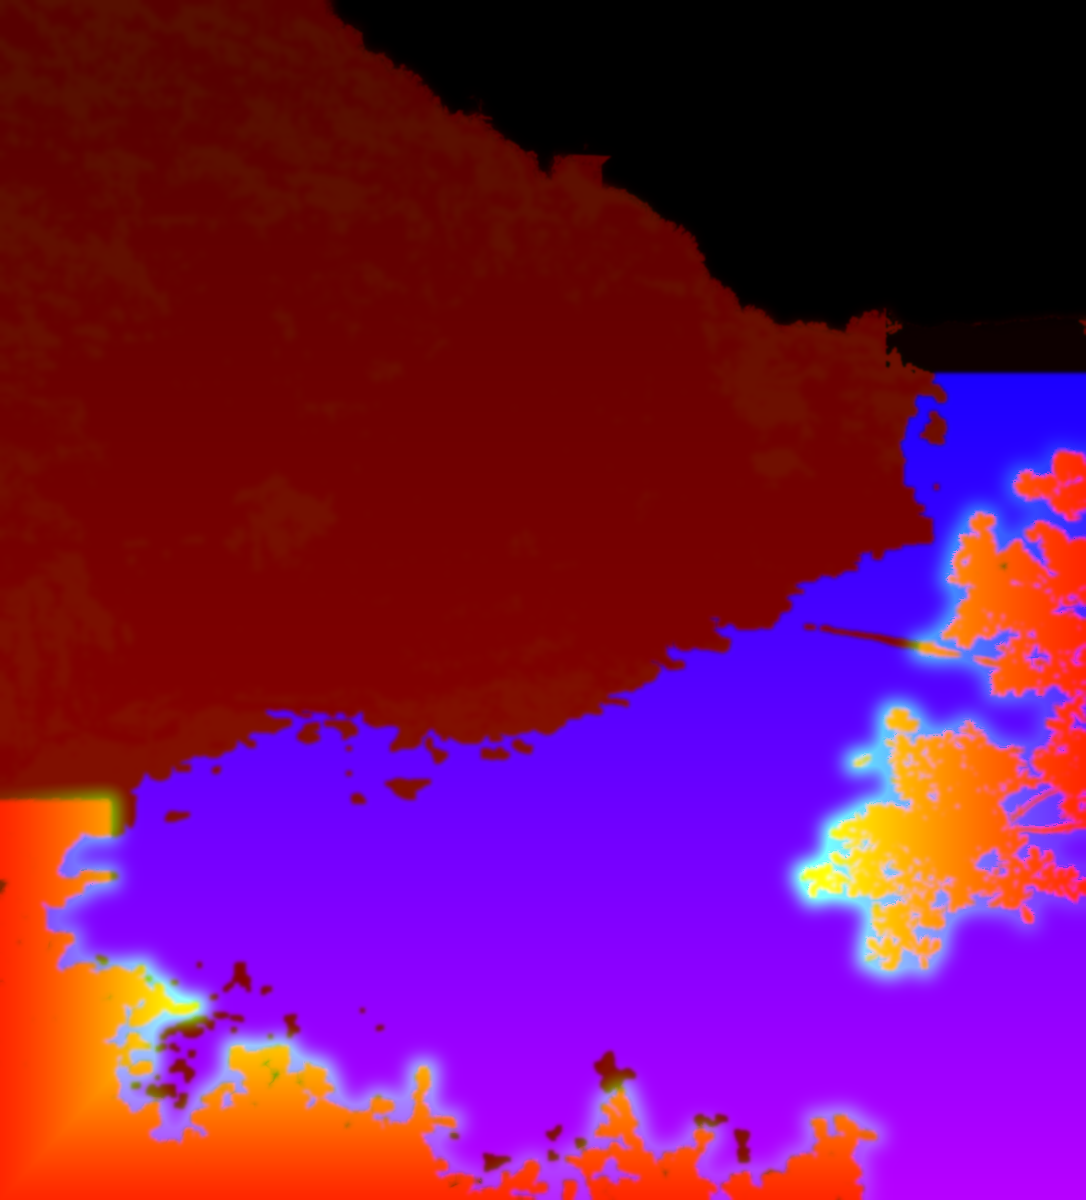
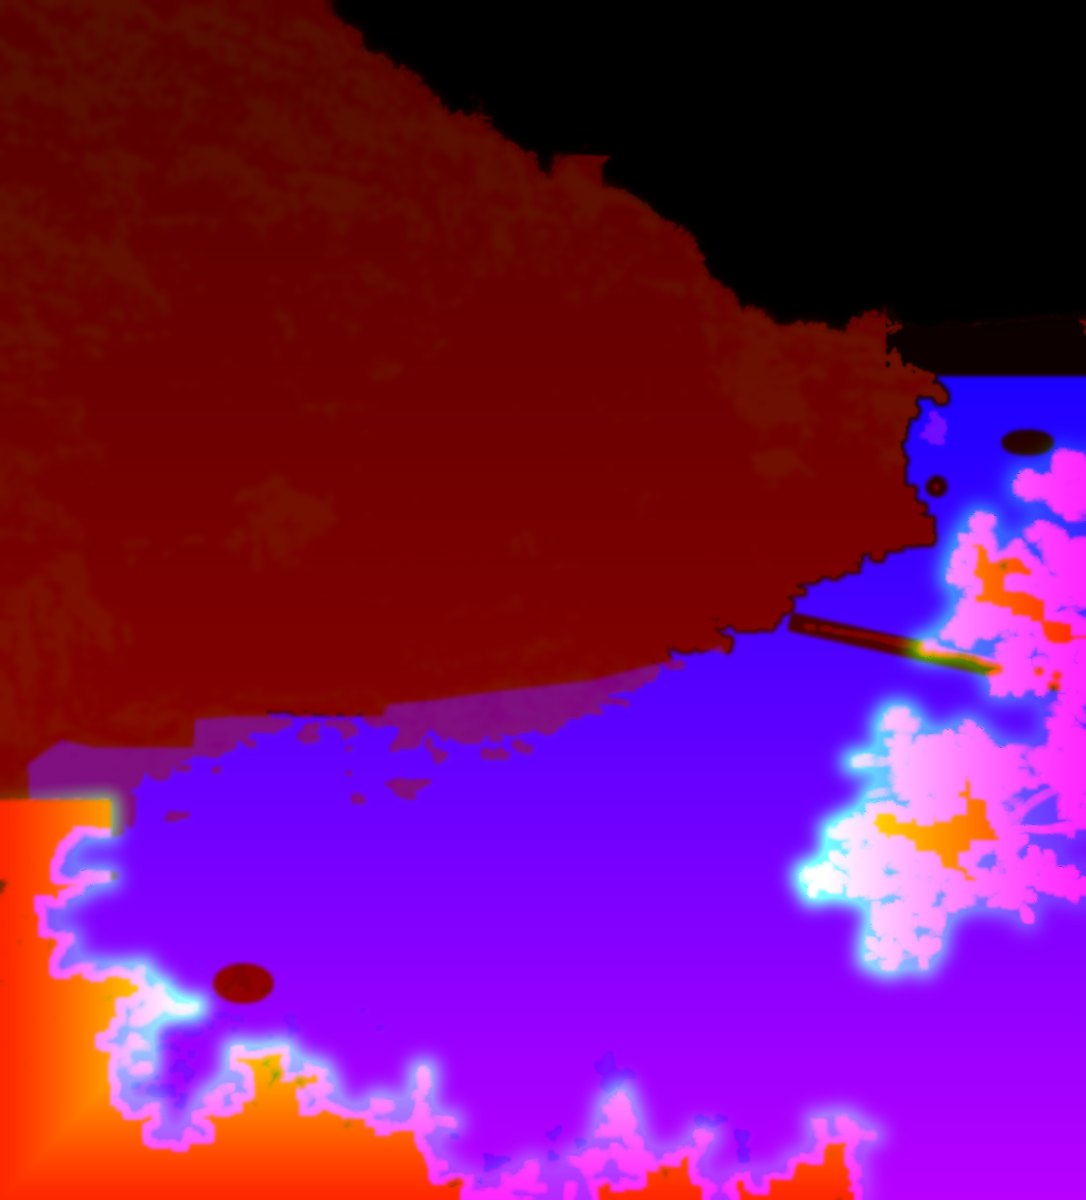
Mare rifatto: scorrono le increspature della foto, non si deforma più l'acqua
Prima l'acqua veniva deformata avanti e indietro sul posto, con sei onde
sinusoidali, bande chiare e scure, una rete di riflessi e puntini casuali
sopra: un vetro che tremola. Ora:

- scene.html: l'acqua è divisa in un fondo fermo (colori e fondale) e nelle
  increspature fini della foto stessa, che scorrono lungo la baia verso riva,
  più lente e piccole verso il largo e più rapide col vento. Due copie sfasate
  si danno il cambio, così lo scorrimento non salta. Brillano a intermittenza
  i riflessi che la foto ha già; la scia della luna nasce dalle increspature.
- I rami in primo piano sono uno strato a sé, con una maschera morbida e il
  loro colore ripulito dal mare: a riposo l'immagine è la foto, e quando si
  spostano scoprono acqua vera (la foto con i rami cancellati) e la boa che
  continua dietro le foglie, senza aloni.
- tools/maps.py: fondale basso davanti alle ville incluso nell'acqua (gli
  scogli restano nitidi), boa, barca, boa rossa e chi nuota esclusi dallo
  scorrimento, rametti sottili aggiunti al ramo, foto senza rami (plate.jpg)
  e maschera e colore delle foglie (leaf.png, leafrgb.jpg).

Claude-Session: https://claude.ai/code/session_016rfVP7zDddbD6eFjRHCoFi

Changed region(s): [[0.0, 0.3083, 1.0, 1.0], [0.3343, 0.8325, 0.3646, 0.8633]]

diff --git a/scene.html b/scene.html
@@ -31,7 +31,7 @@ function fail(reason){
 
 /* ---------- scene description (photo space: x right, y down, 0..1) ---------- */
 const SCENE = {
-  photo: 'img/caletta.jpg', w: 1086, h: 1200,
+  photo: 'img/caletta.jpg', plate: 'img/plate.jpg', w: 1086, h: 1200,
   horizonY: 373/1200,                 // the far shoreline
   focal: { landscape: [0.46, 0.42], portrait: [0.43, 0.5] },
   pivot: 0.5,                         // disparity that stays put while the camera drifts
@@ -80,9 +80,9 @@ void main(){ vec2 p = vec2((gl_VertexID << 1) & 2, gl_VertexID & 2); gl_Position
 const MAXL = 96;
 const FS = `#version 300 es
 precision highp float;
-uniform sampler2D uPhoto, uMaps, uSky, uFill;
+uniform sampler2D uPhoto, uPlate, uMaps, uSky, uFill, uLeafA, uLeafRGB;
 uniform vec2 uRes, uImg, uOff, uVis, uCam;
-uniform float uTime, uPivot, uWind, uWindPx, uWaveK, uRefrPx, uHorizonY;
+uniform float uTime, uPivot, uWind, uWindPx, uFlow, uDetailK, uHorizonY;
 uniform float uEV, uSat, uCon, uSkyMix, uNight, uStars, uCloud, uSunVis, uMoonVis, uLightsK, uWarmSea, uGlint;
 uniform vec3 uWB, uZenith, uHorizon, uGlow, uSunCol, uLift;
 uniform vec2 uSunPos, uMoonPos, uMoonPhase;
@@ -129,81 +129,87 @@ void main(){
   vec2 p = uOff + s*uVis;
   float aspect = uImg.x/uImg.y;
 
-  // parallax: each surface moves with its disparity around the pivot
+  // parallax: each surface moves with its disparity around the pivot. Next to a leaf the
+  // background keeps the depth of the water behind it, the leaves are a layer of their own.
   float d0 = texture(uMaps, p).r;
-  vec2 q = p - uCam*(d0 - uPivot);
+  vec2 q = p - uCam*((d0 > 0.8 ? 0.68 : d0) - uPivot);
   vec4 m = texture(uMaps, q);
   vec2 ip = q*uImg;
 
   // wind in the branches: the whole branch swings slowly, the leaves shiver on top of it, and
   // gusts sweep across the picture. The amplitude map is still where a branch enters the frame.
-  if (m.g > 0.004){
+  vec2 disp = vec2(0.0);
+  float sw = texture(uMaps, p).g;
+  if (sw > 0.004){
     float t = uTime;
-    float front = sin(t*0.31 - q.x*4.0 + q.y*1.5);
-    float gust = (0.55 + 0.45*front)*(0.8 + 0.2*sin(t*1.7 + q.y*9.0));
-    float swing = sin(t*(0.9 + 0.25*uWind) + q.y*3.0 + q.x*2.0) + 0.45*sin(t*(1.9 + 0.4*uWind) + q.x*7.0 + 1.3);
-    vec2 shiver = vec2(vnoise(ip*0.035 + vec2(t*(1.6 + uWind), 1.7)), vnoise(ip*0.035 + vec2(4.2, t*(1.4 + uWind)))) - 0.5;
-    vec2 disp = vec2(swing, -0.35*swing*swing + 0.25*swing)*gust*uWindPx + shiver*(1.2 + 1.8*uWind);
-    q += m.g*disp/uImg;
+    float front = sin(t*0.31 - p.x*4.0 + p.y*1.5);
+    float gust = (0.55 + 0.45*front)*(0.8 + 0.2*sin(t*1.7 + p.y*9.0));
+    float swing = sin(t*(0.9 + 0.25*uWind) + p.y*3.0 + p.x*2.0) + 0.45*sin(t*(1.9 + 0.4*uWind) + p.x*7.0 + 1.3);
+    vec2 pp = p*uImg;
+    vec2 shiver = vec2(vnoise(pp*0.035 + vec2(t*(1.6 + uWind), 1.7)), vnoise(pp*0.035 + vec2(4.2, t*(1.4 + uWind)))) - 0.5;
+    disp = (vec2(swing, -0.35*swing*swing + 0.25*swing)*gust*uWindPx + shiver*(1.2 + 1.8*uWind))*sw;
+  }
+  // the trees on the hill bend in place, a pixel or two; the sea never follows the branches
+  q += disp*(1.0 - smoothstep(0.07, 0.12, sw))*(1.0 - smoothstep(0.0, 0.2, m.b))/uImg;
+  // the foreground leaves swing over the plate, the photo with them painted out
+  vec2 qL = p - uCam*(1.0 - uPivot) - disp/uImg;
+  float leafA = texture(uLeafA, qL).r;
+  vec3 leaf = texture(uLeafRGB, qL).rgb;
+
+  // ---- the sea. The photo already holds its ripples: split it into a still base (the sea floor,
+  // its colours) and the detail finer than ~4 photo pixels (ripples and glints), and let only the
+  // detail travel, the way the wind pushes small waves across a bay. Two copies half a cycle apart
+  // take turns, so the drift never jumps; a slow noise shifts the cycle from place to place.
+  vec3 c = texture(uPlate, q).rgb;
+  float drift = m.b;
+  float sparkle = 0.0;
+  if (drift > 0.003){
+    const float LOD = 2.0;
+    float near = clamp((m.r - 0.1)/0.6, 0.0, 1.0);
+    vec2 dir = normalize(mix(vec2(-1.0, 0.06), vec2(-0.72, 0.62), near));   // along the bay, towards the shore
+    float rot = (vnoise(ip*0.0035 + 3.1) - 0.5)*0.9;
+    dir = vec2(dir.x*cos(rot) - dir.y*sin(rot), dir.x*sin(rot) + dir.y*cos(rot));
+    // a short cycle and a slow drift keep the two copies a few pixels apart: no double image
+    float speed = (1.2 + 5.0*near)*uFlow;                                    // photo pixels per second
+    const float T = 2.0;
+    float ph = uTime/T + 0.45*vnoise(ip*0.004 + 11.0);
+    float f1 = fract(ph), f2 = fract(ph + 0.5);
+    float w1 = 1.0 - abs(2.0*f1 - 1.0), w2 = 1.0 - w1;
+    vec2 qa = q - dir*speed*T*(f1 - 0.5)/uImg, qb = q - dir*speed*T*(f2 - 0.5)/uImg;
+    // only open-water detail travels: nothing is dragged in from the sea floor, the rocks, the boom
+    vec3 dA = (texture(uPlate, qa).rgb - textureLod(uPlate, qa, LOD).rgb)*smoothstep(0.6, 0.9, texture(uMaps, qa).b);
+    vec3 dB = (texture(uPlate, qb).rgb - textureLod(uPlate, qb, LOD).rgb)*smoothstep(0.6, 0.9, texture(uMaps, qb).b);
+    vec3 dMove = (w1*dA + w2*dB)/sqrt(w1*w1 + w2*w2);                       // keeps the contrast through the blend
+    // the glints the photo already has twinkle in the sun
+    float hl = smoothstep(0.03, 0.14, dot(dMove, LUM));
+    dMove *= mix(1.0, 0.6 + 0.8*vnoise(ip*0.45 + vec2(uTime*2.6, -uTime*1.9)), hl*uGlint)*uDetailK*1.08;
+    // what stays put quivers by under half a pixel, as seen through moving water
+    vec2 qv = q + (vec2(vnoise(ip*0.06 + vec2(uTime*0.8, 0.0)), vnoise(ip*0.06 + vec2(5.0, -uTime*0.7))) - 0.5)*0.9/uImg;
+    vec3 dStill = texture(uPlate, qv).rgb - textureLod(uPlate, qv, LOD).rgb;
+    // Open water (drift 1) trades its still ripples for the travelling ones. Over the visible sea
+    // floor (drift 0.5) the rocks keep all their detail: the light on them just breathes a little,
+    // and the ripples coming in from the open water lap over them.
+    float open = smoothstep(0.6, 0.95, drift);
+    float floorK = (1.0 - open)*smoothstep(0.1, 0.5, drift);
+    dStill *= 1.0 + floorK*0.35*(vnoise(ip*0.05 + vec2(uTime*0.9, -uTime*0.6)) - 0.5)*2.0*uGlint;
+    c = max(textureLod(uPlate, q, LOD).rgb + mix(dStill, dMove, open) + dMove*floorK*0.5, 0.0);
+    sparkle = max(dot(dMove, LUM), 0.0);
   }
 
-  // the sea: waves travel across the bay. The picture is a view from above, so a patch of water
-  // at disparity d lies about 1/d away: waves shrink and slow down towards the far coast.
-  float wm = texture(uMaps, q).b;
-  vec2 slope = vec2(0.0);
-  if (wm > 0.01){
-    float d = max(m.r, 0.06);
-    vec2 w = vec2((q.x - 0.5)*aspect, 1.0)*60.0/d;                  // metres, roughly
-    float foot = 0.045/(d*d) + 0.06/d;                              // metres covered by one photo pixel
-    float t = uTime*(0.75 + 0.15*uWind);
-    const int NW = 6;
-    vec3 WV[NW] = vec3[](vec3(9.0, 0.35, 0.095), vec3(5.6, -0.55, 0.085), vec3(3.4, 1.15, 0.075),
-                         vec3(2.1, 0.05, 0.065), vec3(1.3, -1.05, 0.055), vec3(0.8, 0.7, 0.045));
-    for (int i = 0; i < NW; i++){
-      float L = WV[i].x, k = 6.2831853/L;
-      vec2 dir = vec2(cos(WV[i].y), sin(WV[i].y));
-      float fade = clamp(1.0 - 3.0*foot/L, 0.0, 1.0);             // waves under a few pixels would only flicker
-      float ph = dot(dir, w)*k - t*sqrt(9.81*k) + float(i)*1.7;
-      slope += WV[i].z*fade*cos(ph)*dir;
-    }
-    vec2 cw = w*0.35 + vec2(t*0.3, -t*0.2);
-    slope += (vec2(fbm(cw, 3), fbm(cw + 7.3, 3)) - 0.5)*0.12*clamp(1.0 - 2.0*foot, 0.0, 1.0);
-    slope *= uWaveK;
-    // refraction: the rocks and the bottom seen through the moving surface
-    q += wm*slope*vec2(1.0, 0.7)*uRefrPx*(0.25 + d)/uImg;
-  }
-
-  vec3 c = texture(uPhoto, q).rgb;
-  float alpha = texture(uSky, q).r;
+  float alpha = texture(uSky, q).r*(1.0 - leafA);
   vec3 fill = texture(uFill, q).rgb;
   vec3 land = clamp((c - alpha*fill)/max(1.0 - alpha, 0.12), 0.0, 1.0);
+  land = mix(land, leaf, leafA);
   vec3 col = grade(land);
 
-  // light dancing on the sea floor and sparkles where the sun catches the ripples
-  if (wm > 0.01){
-    vec2 cp = ip*0.045;
-    float k = abs(fbm(cp + vec2(uTime*0.35, -uTime*0.21), 3) - fbm(cp*1.1 + vec2(-uTime*0.27, uTime*0.3) + 9.0, 3));
-    float caustic = pow(1.0 - clamp(k*3.2, 0.0, 1.0), 6.0);
-    float shallow = clamp((m.r - 0.25)/0.5, 0.0, 1.0);
-    col *= 1.0 + wm*caustic*0.55*shallow*uGlint;
-    vec2 cell = floor(ip*0.75);
-    float g = h12(cell + floor(uTime*7.0 + h12(cell)*7.0));
-    float glint = step(0.9993, g)*smoothstep(0.45, 0.85, vnoise(ip*0.02 + uTime*0.1))*(1.0 - smoothstep(0.35, 0.7, m.r));
-    col += wm*glint*uGlint*uSunCol*1.1;
-    // light on the waves: faces tilted towards the sky are brighter, the troughs darker
-    float farW = 1.0 - smoothstep(0.1, 0.5, m.r);
-    float facing = clamp(dot(slope, vec2(0.3, -0.95)), -0.45, 0.45);
-    col *= 1.0 + wm*facing*(0.5 + 0.4*farW);
-    col += wm*max(facing, 0.0)*uHorizon*(0.05 + 0.12*farW);
-    col += wm*smoothstep(0.22, 0.4, facing)*uGlint*uSunCol*0.25*(0.3 + farW);
-    // the far sea mirrors the sky at dusk
+  if (drift > 0.003){
     float far = 1.0 - smoothstep(0.10, 0.32, m.r);
-    col = mix(col, col*0.75 + uHorizon*0.30, wm*far*uWarmSea*0.7);
-    // the moon's path on the open water
+    // the far sea mirrors the sky at dusk
+    col = mix(col, col*0.75 + uHorizon*0.30, drift*far*uWarmSea*0.7*(1.0 - leafA));
+    // the moon's path on the open water, sparkling on the photo's own ripples
     float mx = abs(q.x - uMoonPos.x)*aspect;
-    float path = exp(-mx*mx/0.0012)*far*wm;
-    float sh = step(0.975, h12(floor(ip*vec2(0.6, 1.4)) + floor(uTime*5.0)));
-    col += path*uMoonVis*(0.05 + 0.9*sh)*vec3(0.75, 0.82, 1.0);
+    float path = exp(-mx*mx/0.0012)*far*drift*(1.0 - leafA);
+    col += path*uMoonVis*(0.04 + 6.0*sparkle)*vec3(0.75, 0.82, 1.0);
   }
 
   // ---- sky: the photo's sky by day, a drawn sky with sun, moon and stars at dusk and night
@@ -473,8 +479,8 @@ function frame(now){
   if (!state.windPinned) wd.value = state.weather.wind;
   gl.uniform1f(U.uWind, reduce ? 0 : wk);
   gl.uniform1f(U.uWindPx, reduce ? 0 : 4.5*wk + 0.8*wk*wk);       // swing of a branch tip, photo pixels
-  gl.uniform1f(U.uWaveK, reduce ? 0.3 : 0.55 + 0.45*wk);
-  gl.uniform1f(U.uRefrPx, 9.0 + 4.0*wk);
+  gl.uniform1f(U.uFlow, 0.55 + 0.5*wk);                              // how fast the ripples travel
+  gl.uniform1f(U.uDetailK, 0.92 + 0.12*wk);                          // and how crisp they look
   gl.uniform1f(U.uHorizonY, SCENE.horizonY);
   gl.uniform1f(U.uEV, L.ev);
   gl.uniform3fv(U.uWB, L.wb);
@@ -558,10 +564,14 @@ window.__scene = {
 };
 
 try {
-  const [photo, maps, sky, fill] = await Promise.all([
-    loadImage(SCENE.photo), loadImage('img/maps.png'), loadImage('img/sky.png'), loadImage('img/skyfill.png')]);
+  const [photo, maps, sky, fill, plate, leafA, leafRGB] = await Promise.all([
+    loadImage(SCENE.photo), loadImage('img/maps.png'), loadImage('img/sky.png'), loadImage('img/skyfill.png'), loadImage(SCENE.plate),
+    loadImage('img/leaf.png'), loadImage('img/leafrgb.jpg')]);
   gl.useProgram(prog);
   texture(0, photo, {srgb: true, mips: true}); gl.uniform1i(U.uPhoto, 0);
+  texture(4, plate, {srgb: true, mips: true}); gl.uniform1i(U.uPlate, 4);
+  texture(5, leafA, {red: true}); gl.uniform1i(U.uLeafA, 5);
+  texture(6, leafRGB, {srgb: true}); gl.uniform1i(U.uLeafRGB, 6);
   texture(1, maps); gl.uniform1i(U.uMaps, 1);
   texture(2, sky, {red: true}); gl.uniform1i(U.uSky, 2);
   texture(3, fill, {srgb: true}); gl.uniform1i(U.uFill, 3);

diff --git a/tools/maps.py b/tools/maps.py
@@ -3,7 +3,10 @@
 Outputs (img/):
   sky.png      8-bit sky alpha, same size as the photo
   skyfill.png  the photo sky extended under the land and blurred (no halos, no holes)
-  maps.png     RGB data map: R disparity (0 far .. 255 near), G sway weight, B water
+  maps.png     RGB data map: R disparity (0 far .. 255 near), G sway weight,
+               B drift (how much of the photo's ripples travel: 1 open water, 0.5 shallow, 0 land)
+  plate.jpg    the photo with the foreground leaves painted out (what is behind a swaying leaf)
+  leaf.png     8-bit soft matte of the foreground leaves; leafrgb.jpg their colour
 Review overlays go to tools/out/.
 
 The thresholds are tuned by eye for this photo; rerun after changing the image.
@@ -28,6 +31,31 @@ def guided(I, p, r, eps):
     a = (mean(I * p) - mI * mp) / (mean(I * I) - mI * mI + eps)
     b = mp - a * mI
     return np.clip(mean(a) * I + mean(b), 0, 1)
+
+
+def pull_push(img, known):
+    """Fills the unknown pixels with a smooth blend of the known ones around them."""
+    conf = known.astype(np.float32)
+    acc, wgt = img.astype(np.float32) * conf[..., None], conf
+    levels = []
+    while min(acc.shape[:2]) > 4:
+        levels.append((acc, wgt))
+        acc = cv2.resize(acc, (acc.shape[1] // 2, acc.shape[0] // 2), interpolation=cv2.INTER_AREA)
+        wgt = cv2.resize(wgt, (wgt.shape[1] // 2, wgt.shape[0] // 2), interpolation=cv2.INTER_AREA)
+    fill = acc / np.maximum(wgt, 1e-6)[..., None]
+    for acc_l, wgt_l in reversed(levels):
+        up = cv2.resize(fill, (acc_l.shape[1], acc_l.shape[0]), interpolation=cv2.INTER_LINEAR)
+        a = np.clip(wgt_l * 4, 0, 1)[..., None]
+        fill = (acc_l / np.maximum(wgt_l, 1e-6)[..., None]) * a + up * (1 - a)
+    return fill
+
+
+def fill_small_holes(mask, max_area):
+    """Turns the small islands of 'not mask' inside the mask into mask."""
+    n, lab, stats, _ = cv2.connectedComponentsWithStats((~mask).astype(np.uint8), connectivity=8)
+    small = np.zeros(n, bool)
+    small[1:] = stats[1:, cv2.CC_STAT_AREA] <= max_area
+    return mask | small[lab]
 
 
 def largest_touching(mask, seeds):
@@ -84,6 +112,23 @@ def main():
     big = np.zeros(n, bool)
     big[1:] = stats[1:, cv2.CC_STAT_AREA] > 60
     fg |= big[lab]
+    # the twigs: thin dark lines against the bright sea, hanging off the leaves
+    V_local = cv2.GaussianBlur(V, (0, 0), 6)
+    twigs = right_zone & (V < 0.62 * V_local) & ~bright_sea
+    n, lab = cv2.connectedComponents(twigs.astype(np.uint8), connectivity=8)
+    touching = np.unique(lab[cv2.dilate(fg.astype(np.uint8), np.ones((5, 5), np.uint8)).astype(bool) & twigs])
+    fg |= np.isin(lab, touching[touching > 0])
+
+    # ---- the boom: a floating barrier crossing the bay, behind the hanging branch. It stays still
+    # (no ripples drift over it) and goes on behind the leaves, so a swinging leaf uncovers it.
+    B0, B1 = np.array([798.0, 623.0]), np.array([1066.0, 683.0])
+    u = (B1 - B0) / np.linalg.norm(B1 - B0)
+    along = (xx - B0[0]) * u[0] + (yy - B0[1]) * u[1]
+    across = -(xx - B0[0]) * u[1] + (yy - B0[1]) * u[0]
+    boom = (np.abs(across) <= 3.5) & (along >= -2) & (along <= np.linalg.norm(B1 - B0))
+    boom_wide = (np.abs(across) <= 6.0) & (along >= -6) & (along <= np.linalg.norm(B1 - B0) + 6)
+    fg &= ~(boom & ~right_zone)
+
     water &= ~fg
     water_s = cv2.GaussianBlur(water.astype(np.float32), (0, 0), 1.2)
     fg = cv2.dilate(fg.astype(np.uint8), np.ones((3, 3), np.uint8)).astype(bool) & ~(sky_a > 0.5)
@@ -113,8 +158,95 @@ def main():
     sway = np.maximum(fg_wide * (0.15 + 0.85 * hinge), hill)
     sway = np.clip(sway, 0, 1).astype(np.float32)
 
-    water_b = cv2.GaussianBlur(water.astype(np.float32), (0, 0), 2.0)
-    maps = np.dstack([water_b, sway, d])  # BGR order for OpenCV: B water, G sway, R disparity
+    # ---- shallow water in front of the villas, where the sea floor shows through: an authored
+    # outline of the waterline (photo pixels), closed through the deep water below it
+    outline = np.array([(28, 845), (24, 762), (60, 736), (95, 744), (190, 744), (192, 716),
+                        (232, 713), (380, 713), (386, 701), (430, 697), (470, 691), (520, 685),
+                        (590, 677), (640, 664), (700, 650), (722, 641), (745, 700), (600, 800),
+                        (300, 860), (120, 880), (40, 880)], np.int32)
+    poly = np.zeros((h, w), np.uint8)
+    cv2.fillPoly(poly, [outline], 1)
+    shallow = poly.astype(bool) & ~water & ~fg
+
+    # ---- drift: how much of the photo's own ripples may travel. All of it on open water and
+    # behind the leaves that hang over it, half over the visible sea floor (the rocks stay sharp),
+    # none within a few pixels of anything that is not sea: rocks, the boom, the boat, the swimmer.
+    near_water = cv2.dilate(water.astype(np.uint8), np.ones((15, 15), np.uint8)).astype(bool)
+    # sparkles, sprigs and dark patches the colour test left out are still sea
+    deep = fill_small_holes(water | (fg & near_water) | shallow, 900) & ~shallow
+    # ...but the swimmer, the boat and the buoy are not, and must not drift away with the ripples
+    things = np.zeros((h, w), np.uint8)
+    for (cx, cy, rx, ry) in [(243, 983, 26, 16), (1027, 442, 22, 9), (936, 486, 7, 7)]:
+        cv2.ellipse(things, (cx, cy), (rx, ry), 0, 0, 360, 1, -1)
+    deep &= ~(things.astype(bool) | (boom_wide & ~fg))
+    barrier = ~(deep | shallow | fg)
+    dist = cv2.distanceTransform((~barrier).astype(np.uint8), cv2.DIST_L2, 5)
+    drift = np.where(deep, 1.0, np.where(shallow, 0.5, 0.0)) * np.clip((dist - 2.0) / 4.0, 0, 1)
+    drift = cv2.GaussianBlur(drift.astype(np.float32), (0, 0), 1.5)
+
+    # ---- plate: the photo with the foreground leaves painted out, so a leaf can sway over the
+    # water and the rocks without leaving a copy of itself behind
+    # The leaf layer is the photo seen through a tight soft matte (the leaves and their edge
+    # pixels); the plate replaces exactly what that matte covers, plus one pixel, so at rest the
+    # picture is the photo. Behind the leaves over the sea the colours come from the sea only and
+    # the ripples (fine and mid scale) are borrowed from open water further along, so a leaf that
+    # swings away uncovers sea, not a smooth patch.
+    leaf = np.clip((fg_s - 0.04) / 0.9, 0, 1).astype(np.float32)
+    # pixels that are mostly sea (matte under 0.12) keep the photo: the faint edge they carry is invisible
+    hole = leaf >= 0.12
+    known = ~cv2.dilate(hole.astype(np.uint8), np.ones((13, 13), np.uint8)).astype(bool)
+    img = im.astype(np.float32)
+    sea_fill = pull_push(img, (deep | shallow) & ~boom_wide & known)
+    any_fill = pull_push(img, known)
+    detail = img - cv2.GaussianBlur(img, (0, 0), 6.0)
+    source = water & known & ~boom_wide & ~things.astype(bool)
+    borrowed = np.zeros_like(img)
+    got = np.zeros((h, w), bool)
+    offsets = [(-140, 0), (-230, 0), (0, -130), (-90, -90), (0, -220), (-320, 0), (-180, 60),
+               (-60, 150), (140, 0), (0, 130), (-400, -40), (-260, 120), (-120, 220), (-480, 0)]
+    for (dx, dy) in offsets:
+        ok = np.roll(source, (-dy, -dx), axis=(0, 1))
+        if dy: ok[(slice(h - dy, h) if dy > 0 else slice(0, -dy))] = False
+        if dx: ok[:, (slice(w - dx, w) if dx > 0 else slice(0, -dx))] = False
+        take = hole & ~got & ok
+        borrowed[take] = np.roll(detail, (-dy, -dx), axis=(0, 1))[take]
+        got |= take
+    rng = np.random.default_rng(7)
+    for _ in range(200):                               # whatever is left: any offset that lands on sea
+        if not (hole & ~got).any(): break
+        dx, dy = int(rng.integers(-500, 200)), int(rng.integers(-300, 300))
+        ok = np.roll(source, (-dy, -dx), axis=(0, 1))
+        if dy: ok[(slice(h - dy, h) if dy > 0 else slice(0, -dy))] = False
+        if dx: ok[:, (slice(w - dx, w) if dx > 0 else slice(0, -dx))] = False
+        take = hole & ~got & ok
+        borrowed[take] = np.roll(detail, (-dy, -dx), axis=(0, 1))[take]
+        got |= take
+    over_sea = hole & (right_zone | cv2.dilate(water.astype(np.uint8), np.ones((61, 61), np.uint8)).astype(bool))
+    print('fill: leaf pixels over the sea without borrowed ripples:', int((over_sea & ~got).sum()))
+    behind = np.where(over_sea[..., None], sea_fill + borrowed, any_fill)
+    # the boom goes on behind the leaves: its cross profile, taken where it is in plain view
+    seen = boom & ~hole
+    prof = {}
+    for k in range(-4, 5):
+        sel = seen & (np.round(across) == k)
+        if sel.any(): prof[k] = img[sel].mean(0)
+    under = boom & hole
+    for k, c in prof.items():
+        sel = under & (np.round(across) == k)
+        behind[sel] = c
+    plate = np.clip(np.where(hole[..., None], behind, img), 0, 255)
+    cv2.imwrite(os.path.join(OUT, 'plate.jpg'), plate.astype(np.uint8), [cv2.IMWRITE_JPEG_QUALITY, 92])
+    # The leaves' own colour, without the sea mixed into their edge pixels (photo = leaf*a + plate*(1-a)),
+    # so the picture at rest is the photo and a swinging leaf carries no sea with it.
+    plate_q = cv2.imread(os.path.join(OUT, 'plate.jpg')).astype(np.float32)
+    a = leaf[..., None]
+    F = np.where(hole[..., None], np.clip((img - (1 - a) * plate_q) / np.maximum(a, 0.12), 0, 255), img)
+    # outside the leaves the colour is never seen: keep it smooth so the file stays small
+    F = np.where((leaf > 0.002)[..., None], F, cv2.GaussianBlur(pull_push(F, leaf > 0.002), (0, 0), 4))
+    cv2.imwrite(os.path.join(OUT, 'leafrgb.jpg'), F.astype(np.uint8), [cv2.IMWRITE_JPEG_QUALITY, 93])
+    cv2.imwrite(os.path.join(OUT, 'leaf.png'), np.clip(leaf * 255 + 0.5, 0, 255).astype(np.uint8))
+
+    maps = np.dstack([drift, sway, d])  # BGR order for OpenCV: B drift, G sway, R disparity
     cv2.imwrite(os.path.join(OUT, 'maps.png'), np.clip(maps * 255 + 0.5, 0, 255).astype(np.uint8))
     cv2.imwrite(os.path.join(OUT, 'sky.png'), np.clip(sky_a * 255 + 0.5, 0, 255).astype(np.uint8))
 
@@ -140,11 +272,12 @@ def main():
     # ---- review overlays
     ov = im.astype(np.float32)
     ov = ov * (1 - 0.6 * sky_a[..., None]) + np.array([255, 0, 255]) * 0.6 * sky_a[..., None]
-    ov = ov * (1 - 0.45 * water_s[..., None]) + np.array([255, 128, 0]) * 0.45 * water_s[..., None]
+    ov = ov * (1 - 0.45 * drift[..., None]) + np.array([255, 128, 0]) * 0.45 * drift[..., None]
     ov = ov * (1 - 0.6 * fg_s[..., None]) + np.array([0, 0, 255]) * 0.6 * fg_s[..., None]
     cv2.imwrite(os.path.join(DBG, 'masks.jpg'), ov.astype(np.uint8))
     cv2.imwrite(os.path.join(DBG, 'disparity.jpg'), (d * 255).astype(np.uint8))
     cv2.imwrite(os.path.join(DBG, 'sway.jpg'), (sway * 255).astype(np.uint8))
+    cv2.imwrite(os.path.join(DBG, 'drift.jpg'), (drift * 255).astype(np.uint8))
 
 
 if __name__ == '__main__':

diff --git a/README.md b/README.md
@@ -9,7 +9,7 @@ Il sito di Becchigialli Holding Immobiliare, sul modello di vittoriodini.it: una
 | `index.html` | La pagina: sblocco, ora, alba e tramonto, meteo, orologi delle sedi, menu |
 | `scene.html` | Lo sfondo in WebGL2, caricato come iframe dietro la pagina |
 | `astro.js` | Sole e luna per il luogo di chi visita |
-| `img/` | La foto e le sue mappe (cielo, mare, rami, profondità) |
+| `img/` | La foto e le sue mappe: cielo, profondità, rami (con la foto senza rami dietro), quanto scorre il mare |
 | `fonts/` | Cormorant Garamond e Inter Tight, ospitati sul sito (licenza OFL) |
 | `tools/` | Mappe della foto, impronta della password, screenshot e video di prova |
 
